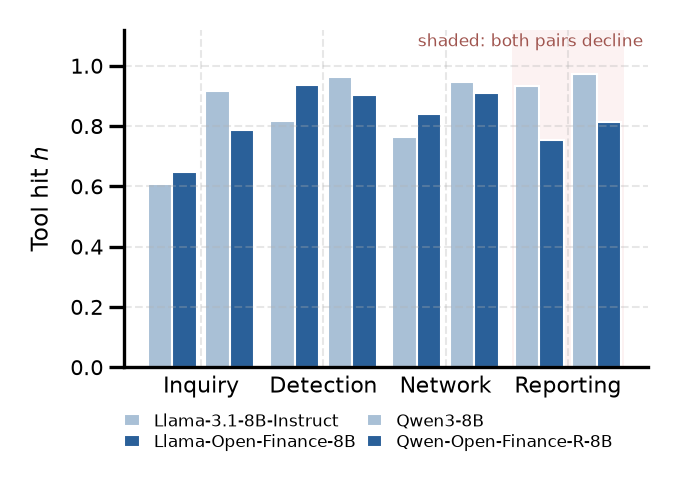
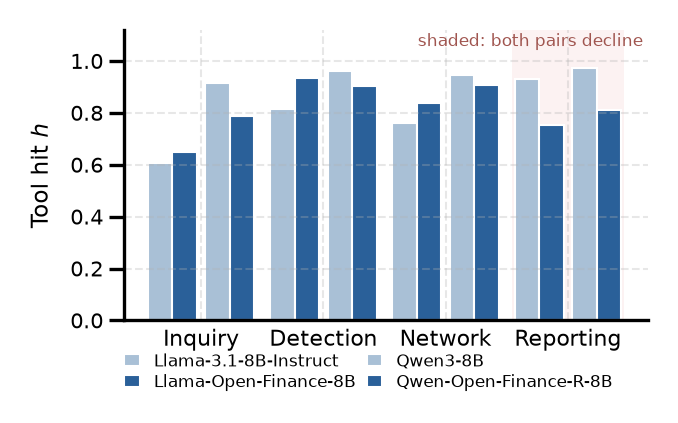
analysis: the sub-domain figure is drawn short enough to finish on its page again
The prose cuts moved where 5.1 starts, and at 1.78in the wrap it sits in ran
past the page break once more, leaving two narrow lines at the top of the next
page with nothing beside them. Drawn at 1.58in it finishes where it starts.

This is the second time the same wrap has crossed a break, and the cause is not
the figure but how far down the page its section begins, so a later edit to the
body prose can bring it back.

Claude-Session: https://claude.ai/code/session_01SV9keZjffkrjNC4HuNDkyD

diff --git a/_experiments/scripts/RQ5_subdomain_grouped_bar.py b/_experiments/scripts/RQ5_subdomain_grouped_bar.py
@@ -51,7 +51,7 @@ def main() -> int:
     declines = set(base["subdomains_where_every_pair_declines"])
 
     # Drawn 1:1 for a 0.42\\textwidth wrapfigure, so nothing is scaled at use.
-    fig, ax = plt.subplots(figsize=(2.35, 1.78))
+    fig, ax = plt.subplots(figsize=(2.35, 1.58))
     x = np.arange(len(subdomains))
     width = 0.20
     for slot, (fine_id, pair) in enumerate(pairs.items()):
